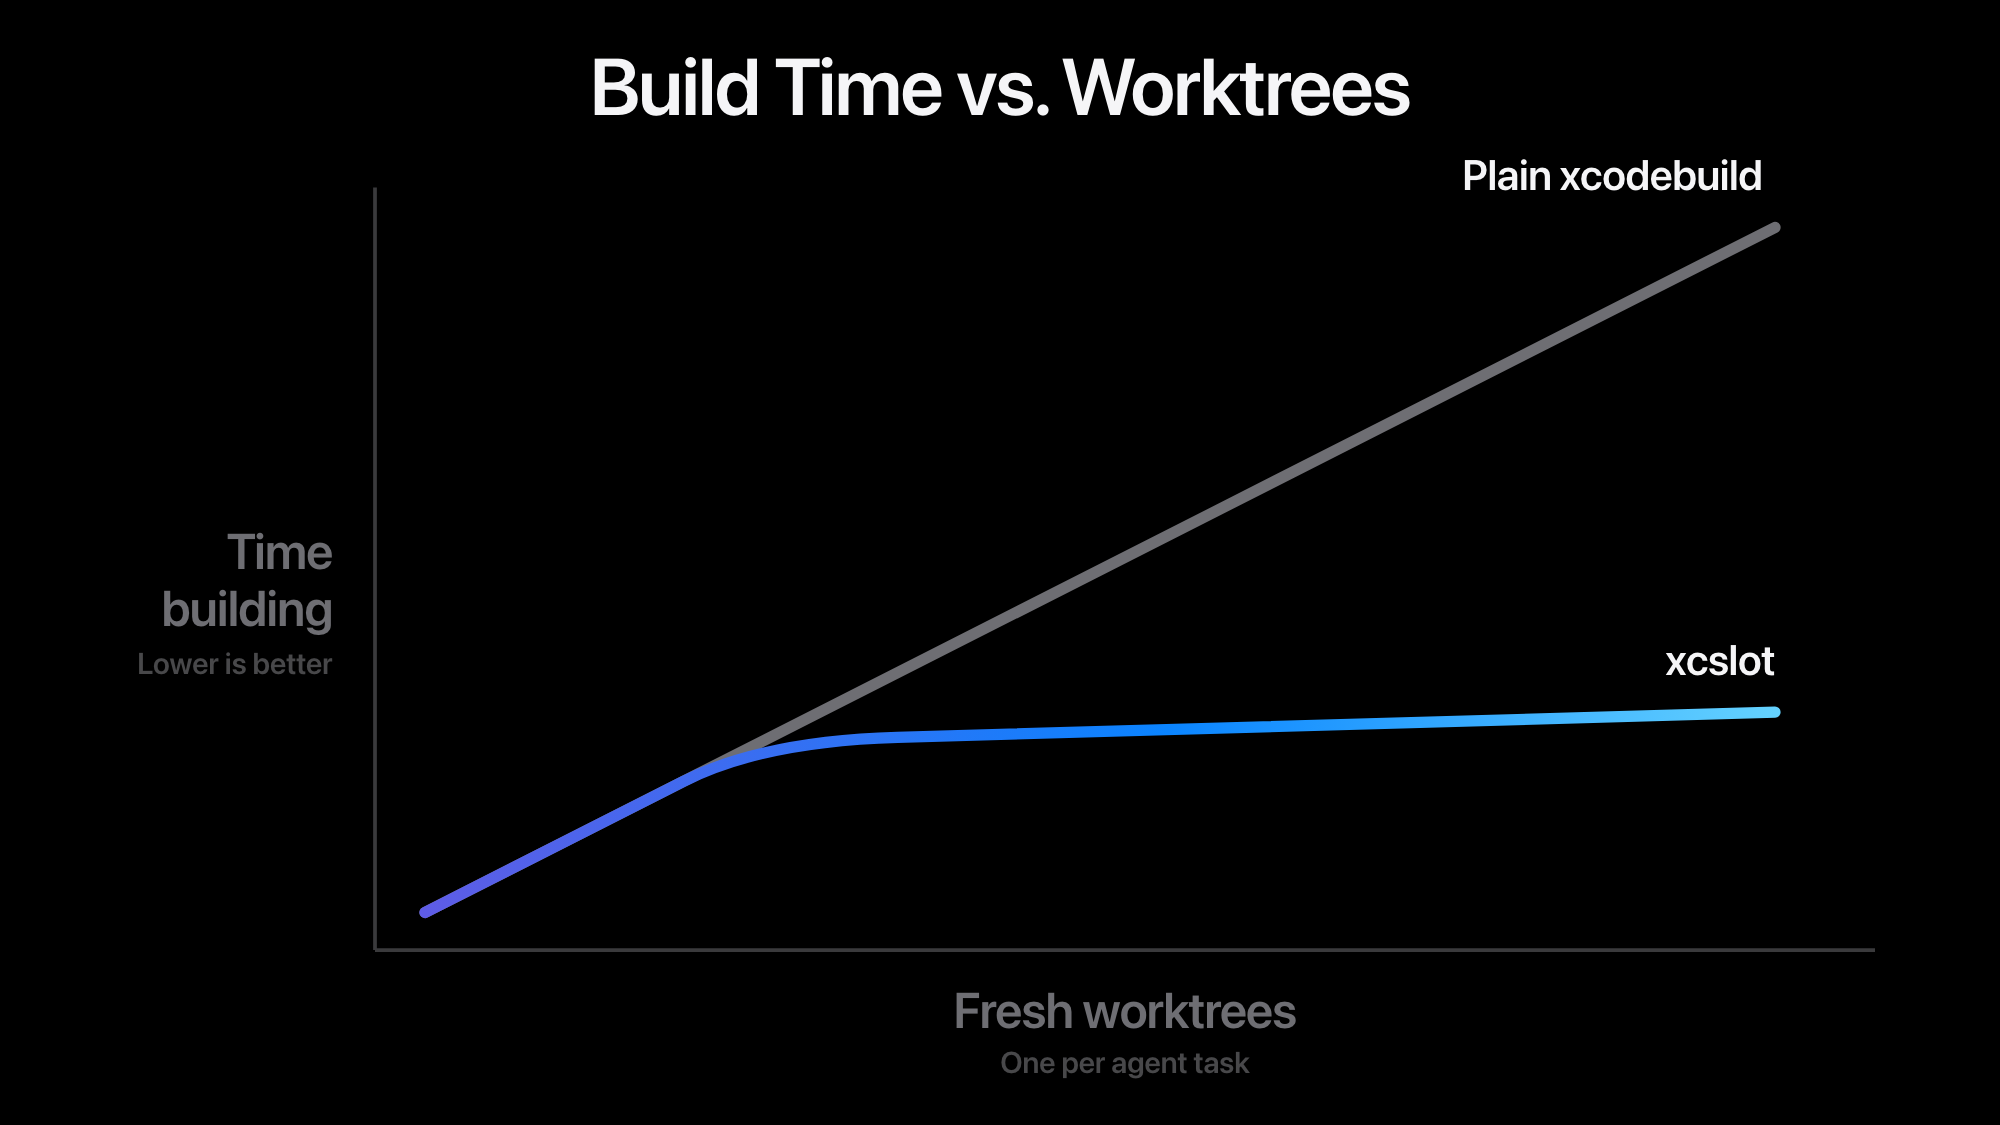
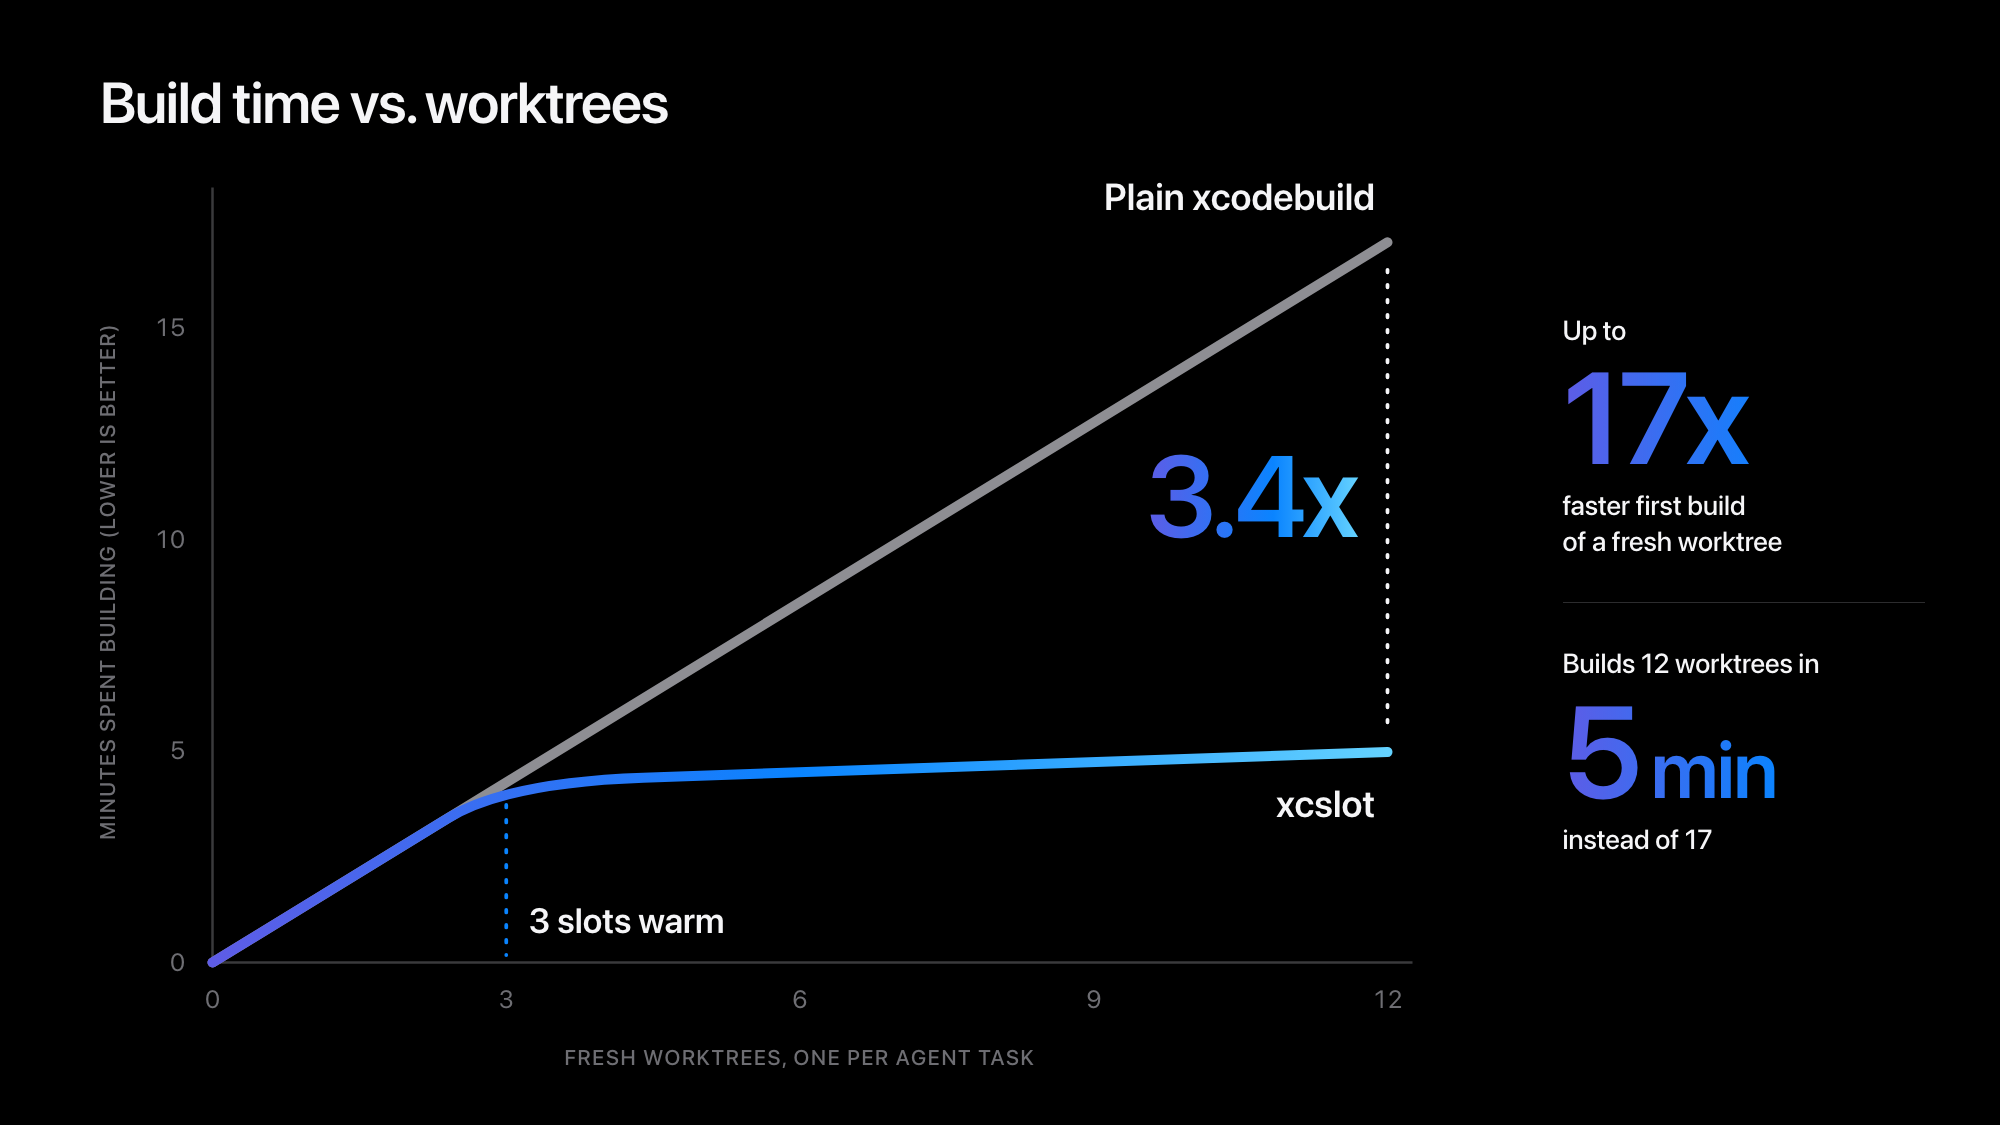
README chart: axes with numbers, callouts and the figures beside it
Minutes against worktrees on both axes, a dotted mark where the three slots
turn warm, the 3.4x gap at twelve worktrees, and the two headline figures in a
column on the right, in the layout of Apple's performance-versus-power slides.

diff --git a/scripts/art/chart.html b/scripts/art/chart.html
@@ -6,10 +6,11 @@
       :root {
         --bg: #000;
         --fg: #f5f5f7;
-        --axis-label: #6e6e73;
-        --axis-note: #48484a;
+        --muted: #86868b;
+        --faint: #6e6e73;
         --axis: #3a3a3c;
-        --grey-line: #6e6e73;
+        --grey-line: #8e8e93;
+        --rule: #2c2c2e;
         --display: -apple-system, "SF Pro Display", BlinkMacSystemFont, system-ui, sans-serif;
       }
       html,
@@ -22,84 +23,163 @@
         height: 900px;
         font-family: var(--display);
         -webkit-font-smoothing: antialiased;
+        color: var(--fg);
+        position: relative;
       }
       svg {
-        display: block;
+        position: absolute;
+        inset: 0;
       }
       .title {
-        font-size: 64px;
+        position: absolute;
+        left: 80px;
+        top: 54px;
+        font-size: 46px;
         font-weight: 600;
         letter-spacing: -0.02em;
-        fill: var(--fg);
       }
-      .end {
-        font-size: 34px;
+      .panel {
+        position: absolute;
+        left: 1250px;
+        top: 250px;
+        width: 290px;
+        display: grid;
+        gap: 34px;
+      }
+      .stat {
+        display: grid;
+        gap: 4px;
+      }
+      .stat + .stat {
+        border-top: 1px solid var(--rule);
+        padding-top: 34px;
+      }
+      .up {
+        font-size: 22px;
+        line-height: 1.3;
+        color: var(--fg);
+        font-weight: 500;
+      }
+      .num {
+        font-size: 104px;
+        line-height: 1;
         font-weight: 600;
-        letter-spacing: -0.01em;
-        fill: var(--fg);
+        letter-spacing: -0.04em;
+        background: linear-gradient(90deg, #5e5ce6, #0a84ff 60%, #64d2ff);
+        -webkit-background-clip: text;
+        color: transparent;
+      }
+      .num small {
+        font-size: 64px;
+        letter-spacing: -0.02em;
+      }
+      .cap {
+        font-size: 22px;
+        line-height: 1.3;
+        color: var(--fg);
+        font-weight: 500;
+      }
+      text {
+        font-family: var(--display);
+      }
+      .tick {
+        font-size: 20px;
+        fill: var(--faint);
+        font-variant-numeric: tabular-nums;
       }
       .axis-title {
-        font-size: 40px;
-        font-weight: 600;
-        letter-spacing: -0.015em;
-        fill: var(--axis-label);
+        font-size: 17px;
+        font-weight: 500;
+        fill: var(--faint);
+        letter-spacing: 0.08em;
       }
-      .axis-note {
-        font-size: 24px;
+      .end {
+        font-size: 30px;
         font-weight: 600;
-        fill: var(--axis-note);
+        fill: var(--fg);
+      }
+      .mark {
+        font-size: 28px;
+        font-weight: 600;
+        fill: var(--fg);
+      }
+      .callout {
+        font-size: 92px;
+        font-weight: 600;
+        letter-spacing: -0.04em;
       }
     </style>
   </head>
   <body>
+    <div class="title">Build time vs. worktrees</div>
     <svg id="chart" width="1600" height="900" viewBox="0 0 1600 900"></svg>
+    <div class="panel">
+      <div class="stat">
+        <span class="up">Up to</span><span class="num">17x</span
+        ><span class="cap">faster first build<br />of a fresh worktree</span>
+      </div>
+      <div class="stat">
+        <span class="up">Builds 12 worktrees in</span><span class="num">5<small> min</small></span
+        ><span class="cap">instead of 17</span>
+      </div>
+    </div>
     <script>
-      // Total xcodebuild time as fresh worktrees arrive, from the measured figures in docs/benchmarks.md:
-      // every plain build is cold (85 s); through xcslot each of the three slots builds cold once, then 4.8 s.
+      // From the measured figures in docs/benchmarks.md: every plain build of a fresh worktree is cold (85 s);
+      // through xcslot each of the three slots builds cold once, then a fresh worktree takes 4.8 s.
       const COLD = 85,
         WARM = 4.8,
         SLOTS = 3,
         N = 12;
-      const plain = Array.from({ length: N + 1 }, (_, n) => [n, COLD * n]);
-      const slotted = Array.from({ length: N + 1 }, (_, n) => [
-        n,
-        COLD * Math.min(n, SLOTS) + WARM * Math.max(0, n - SLOTS),
-      ]);
+      const plainAt = (n) => COLD * n;
+      const slotAt = (n) => COLD * Math.min(n, SLOTS) + WARM * Math.max(0, n - SLOTS);
+      const minutes = (s) => s / 60;
 
-      const box = { left: 300, right: 1500, top: 150, bottom: 760 };
-      const yMax = COLD * N * 1.04;
-      const x = (n) => box.left + 40 + (n / N) * (box.right - box.left - 120);
-      const y = (s) => box.bottom - 30 - (s / yMax) * (box.bottom - box.top - 40);
+      const box = { left: 170, right: 1110, top: 160, bottom: 770 };
+      const yMax = 18;
+      const x = (n) => box.left + (n / N) * (box.right - box.left);
+      const y = (m) => box.bottom - (m / yMax) * (box.bottom - box.top);
 
-      // Straight runs joined by one rounded corner at the third slot, so the curve bends without overshooting.
-      const at = (pts, n) => pts.find(([k]) => k === n)[1];
-      const lerp = (n) => (n <= SLOTS ? COLD * n : COLD * SLOTS + WARM * (n - SLOTS));
-      const plainPath = `M${x(0)},${y(0)} L${x(N)},${y(at(plain, N))}`;
-      const before = SLOTS - 0.7,
-        after = SLOTS + 1.2;
-      const slottedPath = `M${x(0)},${y(0)} L${x(before)},${y(lerp(before))} Q${x(SLOTS)},${y(lerp(SLOTS))} ${x(after)},${y(lerp(after))} L${x(N)},${y(lerp(N))}`;
+      const before = SLOTS - 0.6,
+        after = SLOTS + 1.4;
+      const plainPath = `M${x(0)},${y(0)} L${x(N)},${y(minutes(plainAt(N)))}`;
+      const slotPath = `M${x(0)},${y(0)} L${x(before)},${y(minutes(slotAt(before)))} Q${x(SLOTS)},${y(minutes(slotAt(SLOTS)))} ${x(after)},${y(minutes(slotAt(after)))} L${x(N)},${y(minutes(slotAt(N)))}`;
 
-      const last = (pts) => [x(pts.at(-1)[0]), y(pts.at(-1)[1])];
-      const [px, py] = last(plain),
-        [sx, sy] = last(slotted);
+      const yTicks = [0, 5, 10, 15]
+        .map((m) => `<text class="tick" x="${box.left - 22}" y="${y(m) + 7}" text-anchor="end">${m}</text>`)
+        .join("");
+      const xTicks = [0, 3, 6, 9, 12]
+        .map((n) => `<text class="tick" x="${x(n)}" y="${box.bottom + 36}" text-anchor="middle">${n}</text>`)
+        .join("");
+
+      const endPlain = y(minutes(plainAt(N))),
+        endSlot = y(minutes(slotAt(N)));
+      const ratio = (plainAt(N) / slotAt(N)).toFixed(1);
+      const knee = y(minutes(slotAt(SLOTS)));
       document.getElementById("chart").innerHTML = `
     <defs>
-      <linearGradient id="hot" x1="0" y1="0" x2="1" y2="0">
-        <stop offset="0" stop-color="#5e5ce6"/><stop offset="0.55" stop-color="#0a84ff"/><stop offset="1" stop-color="#64d2ff"/>
+      <linearGradient id="hot" gradientUnits="userSpaceOnUse" x1="${x(0)}" y1="0" x2="${x(N)}" y2="0">
+        <stop offset="0" stop-color="#5e5ce6"/><stop offset="0.5" stop-color="#0a84ff"/><stop offset="1" stop-color="#64d2ff"/>
+      </linearGradient>
+      <linearGradient id="callout" x1="0" y1="0" x2="1" y2="0">
+        <stop offset="0" stop-color="#5e5ce6"/><stop offset="0.6" stop-color="#0a84ff"/><stop offset="1" stop-color="#64d2ff"/>
       </linearGradient>
     </defs>
-    <text class="title" x="800" y="92" text-anchor="middle">Build Time vs. Worktrees</text>
-    <line x1="${box.left}" y1="${box.top}" x2="${box.left}" y2="${box.bottom}" stroke="var(--axis)" stroke-width="3"/>
-    <line x1="${box.left}" y1="${box.bottom}" x2="${box.right}" y2="${box.bottom}" stroke="var(--axis)" stroke-width="3"/>
-    <path d="${plainPath}" fill="none" stroke="var(--grey-line)" stroke-width="9" stroke-linecap="round"/>
-    <path d="${slottedPath}" fill="none" stroke="url(#hot)" stroke-width="9" stroke-linecap="round"/>
-    <text class="end" x="${px - 10}" y="${py - 30}" text-anchor="end">Plain xcodebuild</text>
-    <text class="end" x="${sx}" y="${sy - 30}" text-anchor="end">xcslot</text>
-    <text class="axis-title" x="${box.left - 34}" y="${(box.top + box.bottom) / 2}" text-anchor="end">Time</text>
-    <text class="axis-title" x="${box.left - 34}" y="${(box.top + box.bottom) / 2 + 46}" text-anchor="end">building</text>
-    <text class="axis-note" x="${box.left - 34}" y="${(box.top + box.bottom) / 2 + 84}" text-anchor="end">Lower is better</text>
-    <text class="axis-title" x="${(box.left + box.right) / 2}" y="${box.bottom + 62}" text-anchor="middle">Fresh worktrees</text>
-    <text class="axis-note" x="${(box.left + box.right) / 2}" y="${box.bottom + 98}" text-anchor="middle">One per agent task</text>`;
+    <line x1="${box.left}" y1="${box.top - 10}" x2="${box.left}" y2="${box.bottom}" stroke="var(--axis)" stroke-width="2"/>
+    <line x1="${box.left}" y1="${box.bottom}" x2="${box.right + 20}" y2="${box.bottom}" stroke="var(--axis)" stroke-width="2"/>
+    ${yTicks}${xTicks}
+    <text class="axis-title" transform="translate(${box.left - 78},${(box.top + box.bottom) / 2}) rotate(-90)" text-anchor="middle">MINUTES SPENT BUILDING (LOWER IS BETTER)</text>
+    <text class="axis-title" x="${(box.left + box.right) / 2}" y="${box.bottom + 82}" text-anchor="middle">FRESH WORKTREES, ONE PER AGENT TASK</text>
+
+    <line x1="${x(SLOTS)}" y1="${knee + 18}" x2="${x(SLOTS)}" y2="${box.bottom - 6}" stroke="#0a84ff" stroke-width="3" stroke-dasharray="2 10" stroke-linecap="round"/>
+    <text class="mark" x="${x(SLOTS) + 18}" y="${box.bottom - 24}">3 slots warm</text>
+
+    <line x1="${x(N)}" y1="${endPlain + 22}" x2="${x(N)}" y2="${endSlot - 22}" stroke="#f5f5f7" stroke-width="3" stroke-dasharray="2 10" stroke-linecap="round"/>
+    <text class="callout" x="${x(N) - 26}" y="${(endPlain + endSlot) / 2 + 32}" text-anchor="end" fill="url(#callout)">${ratio}x</text>
+
+    <path d="${plainPath}" fill="none" stroke="var(--grey-line)" stroke-width="8" stroke-linecap="round"/>
+    <path d="${slotPath}" fill="none" stroke="url(#hot)" stroke-width="8" stroke-linecap="round"/>
+    <text class="end" x="${x(N) - 10}" y="${endPlain - 26}" text-anchor="end">Plain xcodebuild</text>
+    <text class="end" x="${x(N) - 10}" y="${endSlot + 52}" text-anchor="end">xcslot</text>`;
     </script>
   </body>
 </html>

diff --git a/README.md b/README.md
@@ -34,7 +34,7 @@ Put `xcslot` in front of the command you already run. Every argument passes thro
 code come back unchanged, with paths pointing at your worktree.
 
 <p align="center">
-  <img src=".github/assets/chart.png" alt="Build time against fresh worktrees: plain xcodebuild climbs steadily, 85 s for every new worktree; through xcslot the line flattens after the three slots' first builds, about 5 s per worktree after that" width="100%" />
+  <img src=".github/assets/chart.png" alt="Build time against fresh worktrees, in minutes: plain xcodebuild climbs to 17 minutes over 12 worktrees; through xcslot the line flattens once the three slots are warm and ends near 5 minutes, 3.4 times less. Beside it: up to 17x faster first build of a fresh worktree, and 12 worktrees built in 5 minutes instead of 17" width="100%" />
 </p>
 
 <p align="center">
